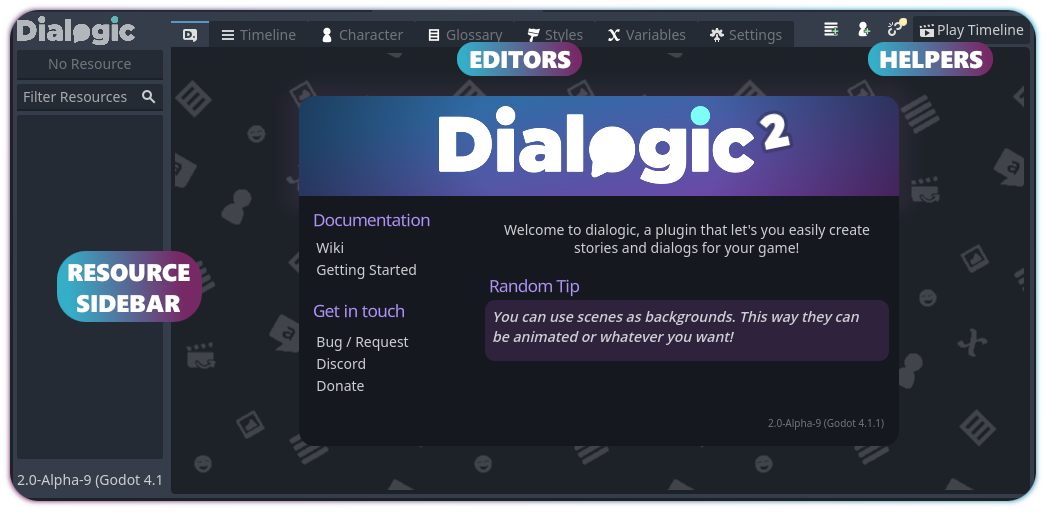
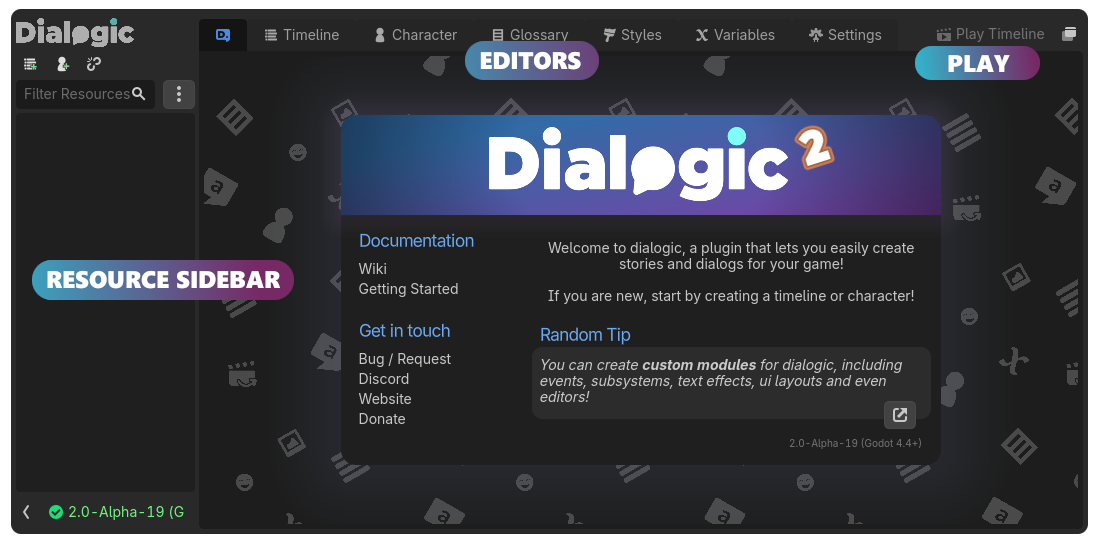
Improve Getting Started Page for Alpha 19
New Images and some adjustments to the wording.

diff --git a/documentation/getting-started.md b/documentation/getting-started.md
@@ -9,7 +9,7 @@
 
 ## 1. Installation & Activation
 
-Dialogic 2 requires Godot 4.2 or higher. If you don't know what version you have installed, take a look at the bottom of your Godot Editor.
+Dialogic 2 requires Godot 4.4 or higher. If you don't know what version you have installed, take a look at the bottom of your Godot Editor.
 
 Let's install Dialogic 2:
 
@@ -36,28 +36,19 @@ Go to [the main page of the repository](https://github.com/dialogic-godot/dialog
 
 ## 2. Meeting the editor
 
-You can now access the dialogic interface by clicking the new tab at the very top (next to 2D, 3D, Script and AssetLib).
+You can now access the dialogic interface by clicking the new tab at the very top (next to 2D, 3D, Script, Game and AssetLib).
 
 ![godot_main_tabs](media/godot_main_tabs.png)
 
-You will be greeted by the dialogic home screen. At the top you can see the different editors dialogic has, at the left a sidebar that will contain recently used characters and timelines.
+You will be greeted by the dialogic home screen. At the top you can see the different editors dialogic has, at the left a sidebar that will contain recently used characters and timelines and where you can create new timelines and characters.
 
 <img title="" src="media/editor_overview.png" alt="" width="600">
-
-In the top right, there are some helpful buttons:
-
-- Add Timeline
-- Add Character
-- Reference Manager
-- Play Timeline
-
-We will start by using the first one.
 
 ---
 
 ## 3. Creating a timeline
 
-To create a timeline, press the `Add Timeline` button. You will need to select a folder to put the timeline in and enter a file name. Timelines will be saved as `*.dtl` files.
+To create a timeline, press the `Add Timeline` button in the sidebar. You will need to select a folder to put the timeline in and enter a file name. Timelines will be saved as `*.dtl` files.
 
 Once you hit `Save`, you can start adding events from the panel to the right of the editor.
 <img src="/media/timeline_editor.png" width="600"/>
@@ -72,7 +63,7 @@ You can test the timeline by clicking the `Play Timeline` button at the top righ
 
 ## 4. Creating a character
 
-To create a new character, press the `Add Character` button at the top right.
+To create a new character, press the `Add Character` button in the sidebar.
 
 As for timelines, you need to select the place to save to and a name.
 
